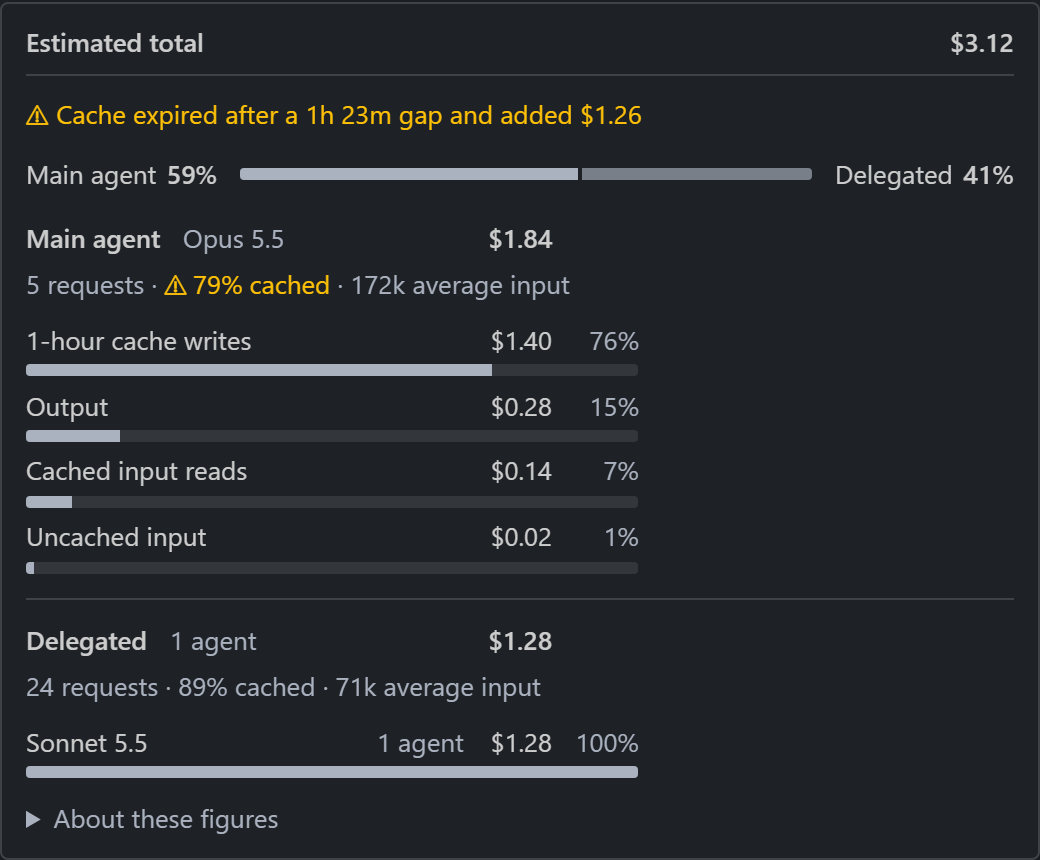
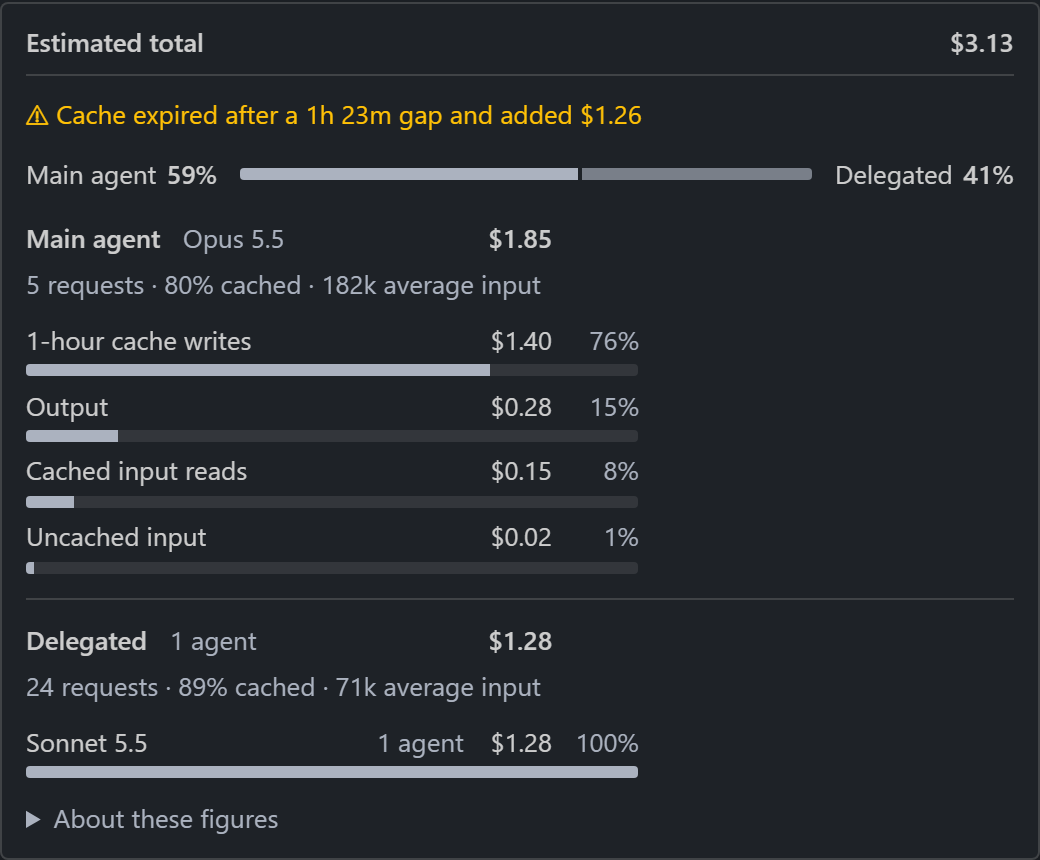
docs(readme): clear the cost sample cache mark and name GPT-6.1 Sol in the cache sample
Cost sample, Main agent (Opus 5.5): 5 requests, 79% cached, 172k average input, $1.84 becomes 5 requests, 80% cached, 182k average input, $1.85. Cache reads rise from 680k to 728k, so the later four requests read about 182k each. The amber low cache mark no longer shows. The first request still rewrites the expired cache, so the warning still reads "Cache expired after a 1h 23m gap and added $1.26". The context grows to 190k, so the turn card in the comment scenes shows 19% of 1M context. The Estimated total stays $3.13.

Cache sample: the Main agent heading read openai.gpt-6-sol on amazon-bedrock. It now records gpt-6.1-sol on the openai provider, so the panel shows GPT-6.1 Sol. The Low cache reuse warning stays and its cache writes are priced, now at $15 of $15 instead of $17 of $17 because GPT-6.1 Sol has its own rates. The Inspect low cache reuse row in the main scene shows $15+.

Replaced readme-cost.webp, readme-comment.webp, readme-comment-editor.webp, readme-cache.webp, and readme-main.webp. No test expectation changed.

Agent: claude-sonnet-5-5 (claude-code)
Agent-Session: 4dfbd3de-1eff-4f38-82e0-29401e255a1b

Changed region(s): [[0.1538, 0.3023, 0.5538, 0.3628], [0.9538, 0.0302, 0.9846, 0.0605]]

diff --git a/extension/scripts/readme-fixture.ts b/extension/scripts/readme-fixture.ts
@@ -340,11 +340,11 @@ const changesTurn: Turn = turn({
     input: 6_000,
     cacheWrite1h: 175_000,
     cacheWrite5m: 0,
-    cacheRead: 680_000,
+    cacheRead: 728_000,
     output: 14_000,
     thinking: 0,
   },
-  contextTokens: 175_000,
+  contextTokens: 190_000,
   contextWindow: 1_000_000,
   toolUses: 22,
   toolCounts: { edits: 3, reads: 8, searches: 3, commands: 6, agents: 1, coordination: 1, web: 0, other: 0 },
@@ -401,12 +401,12 @@ const expiryUsage = {
   output: 2_300,
   thinking: 0,
 };
-// The main agent makes five requests. The first starts the subagent and rewrites the expired cache, which is the request the expiry evidence holds. The other four read the rewritten cache while the context grows from about 160k to 175k tokens.
+// The main agent makes five requests. The first starts the subagent and rewrites the expired cache, which is the request the expiry evidence holds. The other four read the rewritten cache while the context grows from about 160k to 190k tokens.
 const expiryTurnUsage = changesTurn.usage;
 const expiryTurn: Turn = {
   ...changesTurn,
   usage: expiryTurnUsage,
-  contextTokens: 175_000,
+  contextTokens: 190_000,
   outputRate: { output: 14_000, milliseconds: 140_000 },
 };
 // The cache expiry evidence reads the request that crossed the lifetime, which is the first request of a turn.
@@ -517,15 +517,15 @@ const cacheTurn: Turn = turn({
   prompt: 'Find why this long Arc test run spent so much on input. Show cache writes and reads.',
   summary:
     'This run recorded repeated cache writes with little reuse. The cost detail shows how much went to cache writes.',
-  model: 'openai.gpt-6-sol',
+  model: 'gpt-6.1-sol',
   outputRate: { output: 12_000, milliseconds: 480_000 },
-  provider: 'amazon-bedrock',
+  provider: 'openai',
   effort: 'medium',
   usage: { ...cacheUsage, byContextBand: { short: { ...cacheUsage } } },
   usageParts: [
     {
-      model: 'openai.gpt-6-sol',
-      provider: 'amazon-bedrock',
+      model: 'gpt-6.1-sol',
+      provider: 'openai',
       contextWindow: 258_400,
       contextBand: 'short',
       inferenceClass: null,
@@ -2141,8 +2141,8 @@ export function readmePayload(scene: (typeof README_SCENES)[number] = 'main'): R
     efforts: [{ value: 'high', label: 'High', description: '' }],
   };
   const codexModel = {
-    value: selected === cacheTurn ? 'openai.gpt-6-sol' : 'gpt-6-astra',
-    label: selected === cacheTurn ? 'GPT-6 Sol' : 'GPT-6 Astra',
+    value: selected === cacheTurn ? 'gpt-6.1-sol' : 'gpt-6-astra',
+    label: selected === cacheTurn ? 'GPT-6.1 Sol' : 'GPT-6 Astra',
     description: '',
     efforts: [{ value: 'high', label: 'High', description: '' }],
   };
